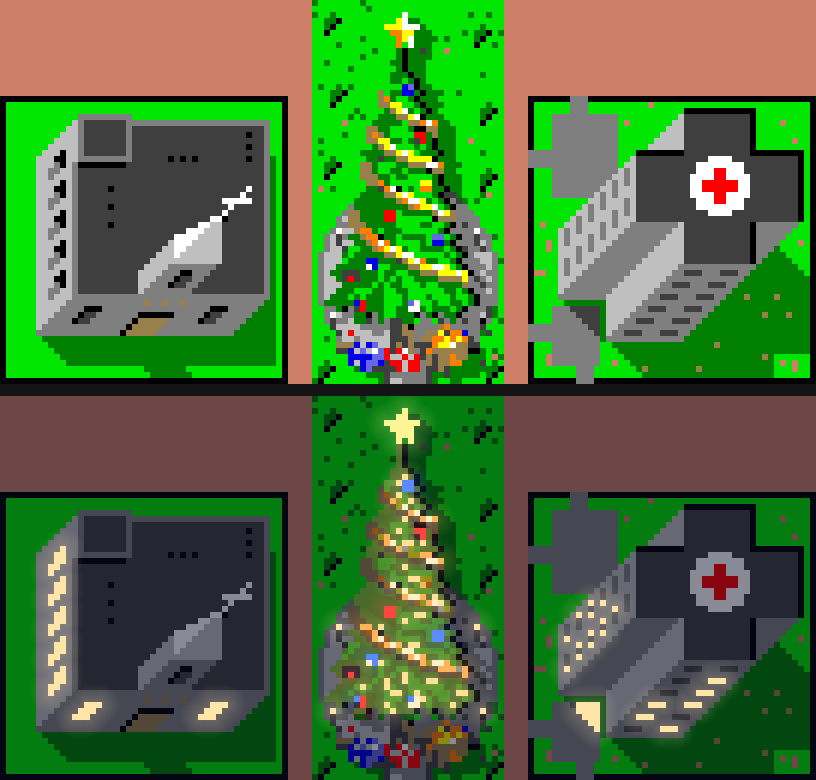
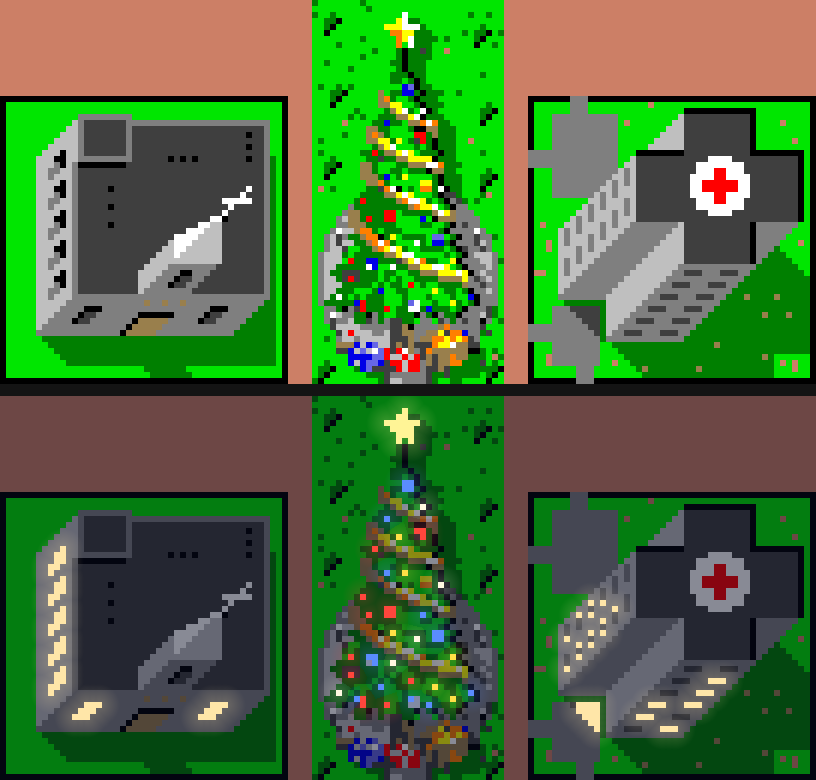
Christmas tree: more lights, and only the lights and star glow at night
Adds strings of single-pixel bulbs (red, blue, yellow, white) on the
needles of the 2x4 tree. At night only the star, the bulbs and the baubles
glow, each in its own colour: no wash over the needles, no lit tinsel, no
lamps. christmas_tree.py lists those pixels in christmas_tree_lights.json and
the XMAS entry in art/nightlights/lights.py lights exactly those.

Changed region(s): [[0.3983, 0.5846, 0.6127, 0.9231], [0.5208, 0.3692, 0.5821, 0.4], [0.4596, 0.3692, 0.4902, 0.4]]

diff --git a/art/prototype/seasonal/christmas_tree.py b/art/prototype/seasonal/christmas_tree.py
@@ -3,13 +3,15 @@
 The fir was generated with the sprite-ai MCP (christmas_tree_ai.png, generation
 9200c525-e71c-41f2-8e5e-b3b61c84c4ea) and is mapped here onto the 14 Micropolis colours. The square
 round its foot (paving, lamps, benches, small round trees, people) is drawn by hand, and the fir's shadow
-is cast east by darkening the ground, the way the originals do. The baubles, tinsel, star, fairy lights
-and lamps light up at night via the edits for 'XMAS' in art/nightlights/lights.py.
+is cast east by darkening the ground, the way the originals do. Strings of single-pixel bulbs (red, blue,
+yellow, white) are added on the needles. At night only the star, the bulbs and the baubles glow, each in its
+own colour: their pixels go to christmas_tree_lights.json, which the 'XMAS' entry in
+art/nightlights/lights.py reads.
 
 Run: python3 art/prototype/seasonal/christmas_tree.py   (writes christmas_tree.png, @4x, and the game
 copy client/public/assets/buildings/christmastree.png; then run art/nightlights/lights.py)
 """
-import os, sys, json, shutil
+import os, sys, json, shutil, hashlib
 from PIL import Image
 HERE = os.path.dirname(os.path.abspath(__file__))
 sys.path.insert(0, os.path.join(HERE, '..', 'civic'))
@@ -53,6 +55,29 @@ for (x, y), c in list(fir.items()):
     if y < 53 and c in (GRASS, FOREST) and (x + 1, y) not in fir:
         fir[(x, y)] = BLACK
         if fir.get((x - 1, y)) == GRASS: fir[(x - 1, y)] = FOREST
+
+# ---------- strings of Christmas lights: single bulbs on the needles, not touching the tinsel, baubles or the
+# outline, at least 3 px apart. Picked in a fixed pseudo-random order so the tree comes out the same every run.
+NEEDLE = (GRASS, FOREST)
+BULB_COLOURS = [RED, BLUE, YELLOW, WHITE]
+baubles = [(x, y) for (x, y), c in fir.items() if 8 <= y <= 52 and c in (RED, BLUE, WATER)]
+taken = list(baubles)
+bulbs = {}
+order = sorted(((x, y) for (x, y), c in fir.items() if 9 <= y <= 51 and c in NEEDLE),
+               key=lambda p: hashlib.md5(f'bulb:{p}'.encode()).digest())
+for (x, y) in order:
+    if len(bulbs) >= 32: break
+    if not all(fir.get((x + dx, y + dy)) in NEEDLE + (BLACK,) for dx, dy in ((-1, 0), (1, 0), (0, -1), (0, 1))): continue
+    if any(max(abs(x - a), abs(y - b)) < 3 for (a, b) in taken): continue
+    bulbs[(x, y)] = BULB_COLOURS[len(bulbs) % 4]
+    taken.append((x, y))
+fir.update(bulbs)
+# what glows at night (art/nightlights/lights.py reads this): the star, the bulbs and the baubles, each in its colour
+NAMES = {RED: 'red', BLUE: 'blue', WATER: 'blue', YELLOW: 'yellow', WHITE: 'white'}
+glow = {'star': [(x, y) for (x, y), c in fir.items() if y <= 7 and c in (YELLOW, WHITE, ORANGE)]}
+for (x, y), c in list(bulbs.items()) + [(p, fir[p]) for p in baubles]:
+    glow.setdefault(NAMES[c], []).append((x, y))
+json.dump({k: sorted(v) for k, v in glow.items()}, open(os.path.join(HERE, 'christmas_tree_lights.json'), 'w'))
 
 # ---------- lamps round the square (white lamp, dark post, shadow pixel to the east)
 LAMPS = [(4, 38), (27, 38), (3, 52), (28, 52)]

diff --git a/art/nightlights/lights.py b/art/nightlights/lights.py
@@ -21,7 +21,7 @@
 #   ('pixwash', x0, y0, x1, y1, cols, a)  a wash only over the pixels whose day colour is in cols
 #   ('onlyat', path)                  drop lights where the image at path (from the repo root) is transparent
 #   ('colour', rgb)                   colour for the edits that follow (default: the building's)
-import sys
+import sys, json
 from PIL import Image
 sys.path.insert(0, __file__.rsplit('/', 1)[0])
 from common import *
@@ -33,6 +33,8 @@ NEON_RED = (255, 60, 70)
 RUNWAY, TAXI, GREEN_L, RED_L, FLOOD = (255, 248, 225), (90, 140, 255), (90, 255, 140), (255, 70, 60), (235, 245, 255)
 HALL_GLOW = (255, 214, 140)
 STAR, XMAS_GLOW, FAIRY = (255, 244, 150), (255, 200, 110), (255, 226, 150)
+XMAS_BULB = {'star': STAR, 'red': RED_L, 'blue': TAXI, 'yellow': (255, 224, 70), 'white': RUNWAY}
+XMAS_LIGHTS = json.load(open(f'{ROOT}/art/prototype/seasonal/christmas_tree_lights.json'))
 
 def runway_edges():
     out = []
@@ -48,19 +50,9 @@ APPROVED = {'H01', 'H02', 'H03', 'H04', 'H06', 'R14', 'I01', 'I05',
             'AIR', 'C04', 'C05', 'C13', 'C16', 'HALL', 'R09', 'C15', 'C18', 'POL', 'C14', 'I08'}
 
 EDITS = {
-    # Christmas tree (art/prototype/seasonal/christmas_tree.py, 2x4 tiles): every bauble a coloured bulb, the tinsel
-    # amber, the star bright, warm fairy lights on a share of the lit needles and a faint warm wash over the boughs,
-    # all kept to the fir's own pixels (above its presents), then the four lamps round the square.
-    'XMAS': [('none',),
-             ('colour', RED_L), ('pix', 0, 8, 31, 52, {RED}, 1),
-             ('colour', TAXI), ('pix', 0, 8, 31, 52, {BLUE, LBLUE}, 1),
-             ('colour', WHITE), ('pix', 0, 8, 31, 52, {WHITE_}, 0.8),
-             ('colour', AMBER), ('pix', 0, 8, 31, 52, {YELLOW, ORANGE}, 0.6),
-             ('colour', FAIRY), ('pix', 0, 8, 31, 52, {GREEN}, 0.22),
-             ('colour', STAR), ('pix', 12, 2, 18, 7, {YELLOW, WHITE_, ORANGE}, 1),
-             ('colour', XMAS_GLOW), ('pixwash', 0, 8, 31, 52, {GREEN, DGREEN}, 70),
-             ('onlyat', 'art/prototype/seasonal/christmas_tree_ai.png'),
-             ('colour', SOFT), ('add', [(4, 38), (27, 38), (3, 52), (28, 52)])],
+    # Christmas tree (art/prototype/seasonal/christmas_tree.py, 2x4 tiles): only the star and the Christmas lights
+    # (bulbs and baubles) glow, each in its own colour; the tree script lists their pixels.
+    'XMAS': [('none',)] + [e for k, pts in XMAS_LIGHTS.items() for e in (('colour', XMAS_BULB[k]), ('add', pts))],
     # houses: no window dots in the art, so the windows are placed by hand on the walls
     'H05': [('add', [(3, 5), (3, 7), (7, 8), (10, 8)])],
     'H07': [('add', [(3, 3), (3, 6), (11, 8), (11, 11)])],
